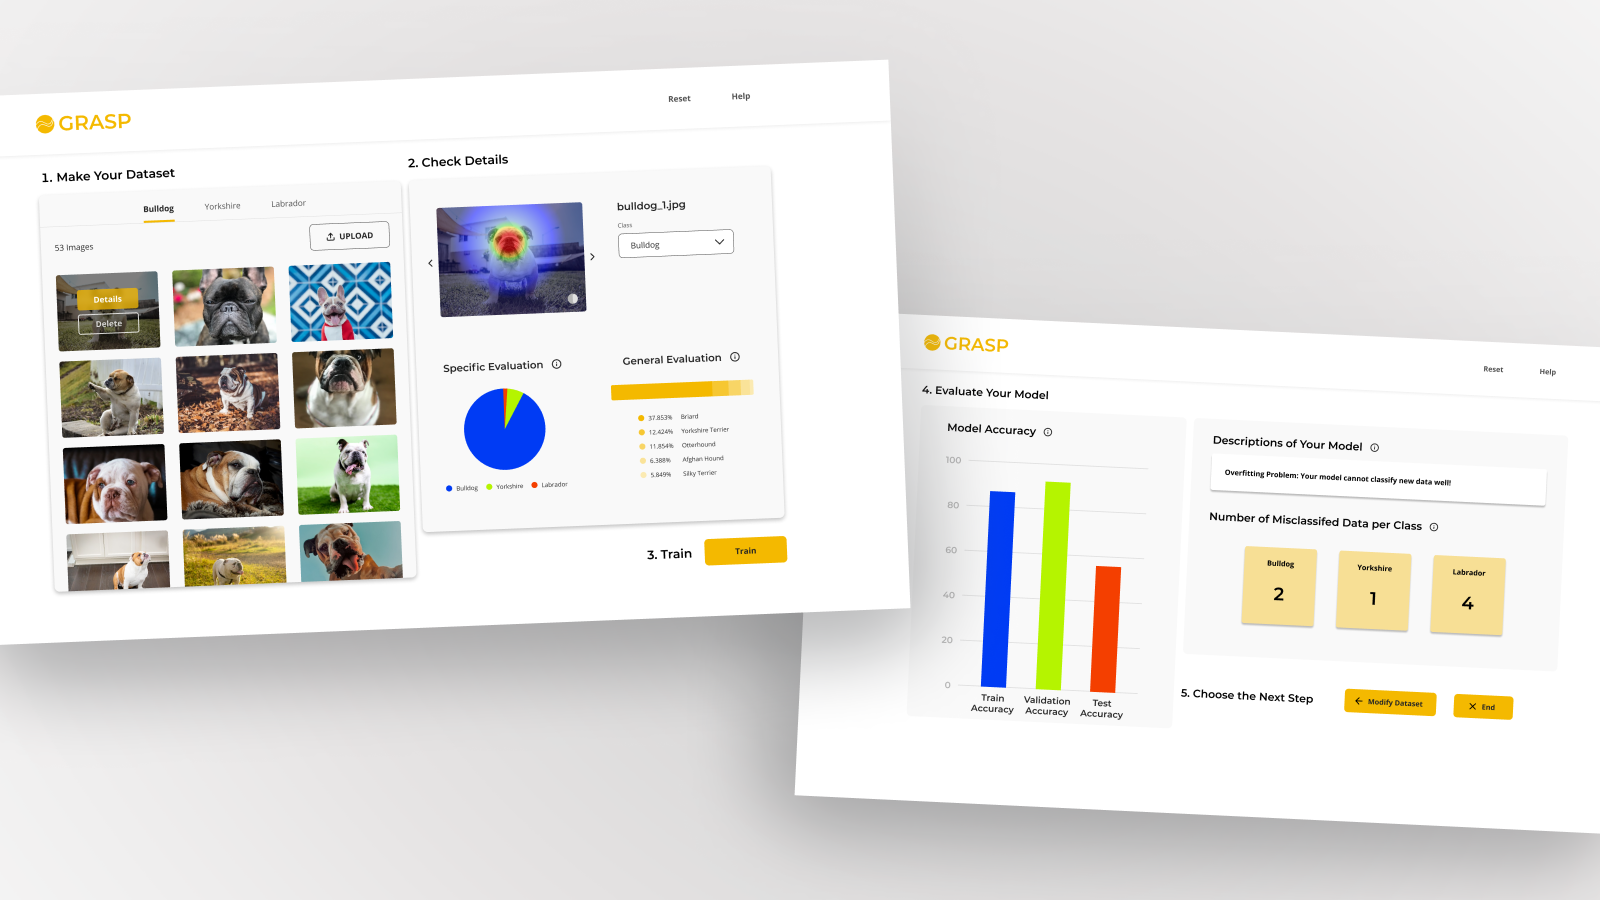
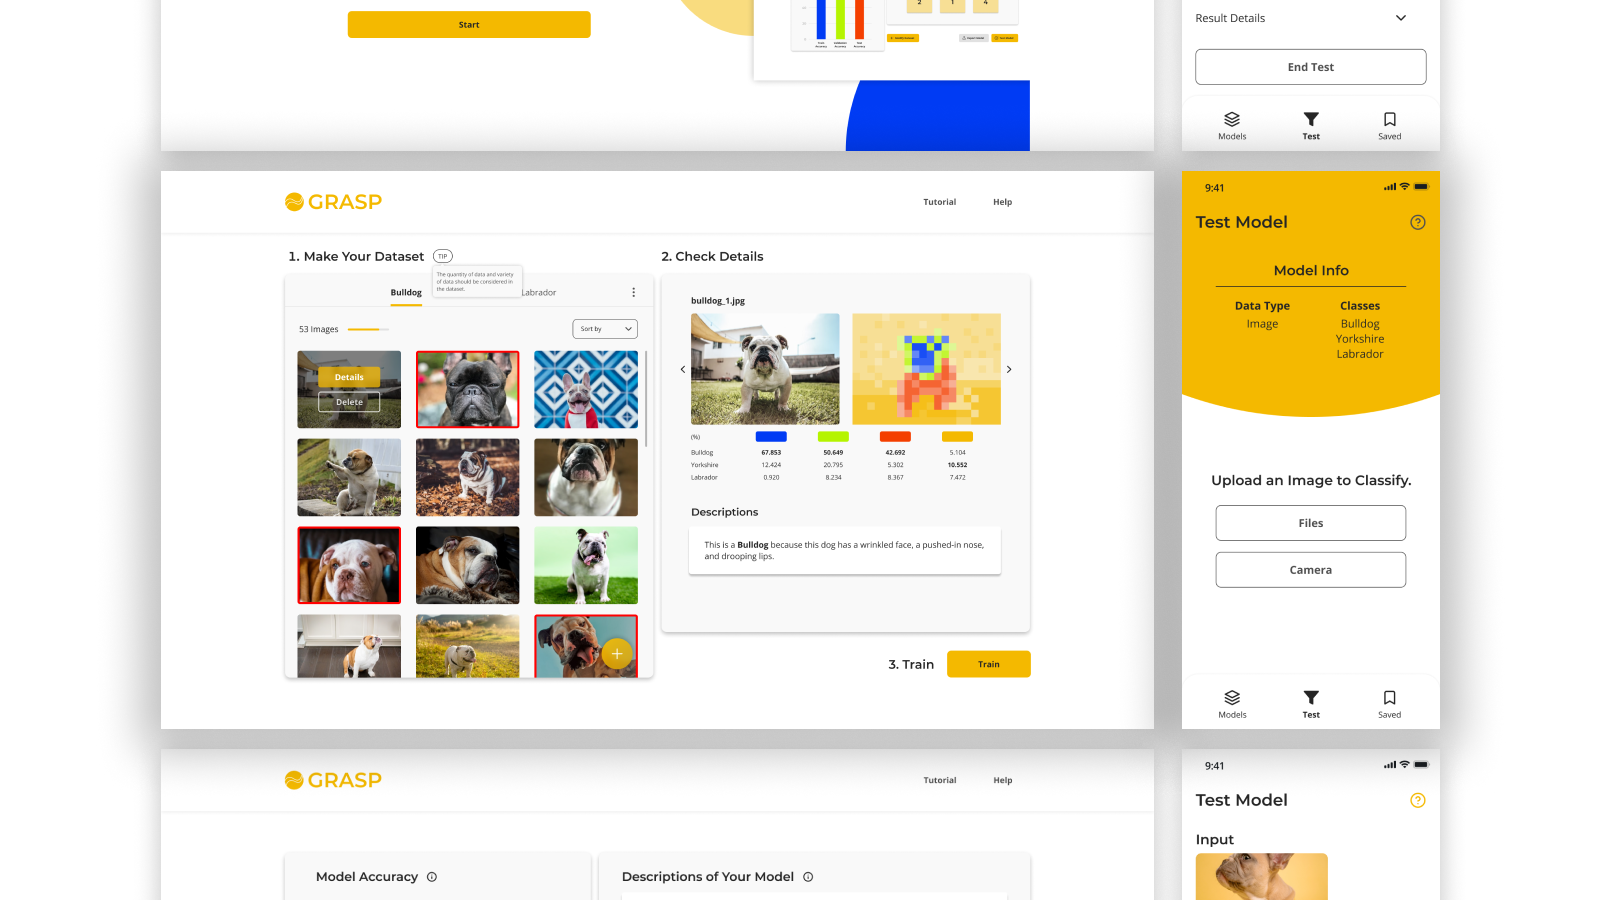
[Grasp] Added redesign section and images

diff --git a/grasp.html b/grasp.html
@@ -94,6 +94,7 @@
           <li class="tool"><a href="#tool" class="floating-nav">Tool</a></li>
           <li class="user-study"><a href="#user-study" class="floating-nav">User Study</a></li>
           <li class="findings"><a href="#findings" class="floating-nav">Findings</a></li>
+          <li class="redesign"><a href="#redesign" class="floating-nav">Redesign</a></li>
           <li class="reflections"><a href="#reflections" class="floating-nav">Reflections</a></li>
         </ul>
       </div>
@@ -146,7 +147,7 @@
             🖍 <span style="font-weight:500;"> UX/UI Design</span> : User flows and UI design of the tool<br>
             📋 <span style="font-weight:500;"> User Study Methodology</span> : Interview scripts, guidelines, tutorials, and metrics <br>
             👥 <span style="font-weight:500;"> User Study</span> : Conducted user study with 21 participants<br>
-            📊 <span style="font-weight:500;"> Data Analysis</span> : Qualitative - Affinity Walls; Quantitative - data analysis using Python<br>
+            📊 <span style="font-weight:500;"> Data Analysis</span> : Qualitative & quantitative data analysis<br>
             📄 <span style="font-weight:500;"> Thesis</span> : Introduction, Related Work, User Study, Findings, Conclusion</p>
             <div>
               <p><span class="bold">Award</span><br>3rd Place in Ewha Capstone Design Expo</p>
@@ -165,8 +166,9 @@
             <p>It is difficult for non-experts to build machine learning (ML) models at the level that satisfies their needs. 
                 Deep learning models are even more challenging because it is unclear how to improve the model, and a trial-and-error approach is not feasible since training these models is time-consuming. 
                 To assist these novice users, we examined how <span class="highlight">interactive and explainable feedback</span> while training a deep learning network can contribute to model performance and users’ satisfaction, focusing on the <span class="highlight">data preparation process</span>.<br><br>
-                We conducted a user study with 31 participants without expertise and while no significant performance gain was observed, we identified potential barriers during the process and found that interactive and explainable feedback <span class="highlight">provides complementary benefits for improving users’ understanding of ML</span>.
+                Based on the findings from user test, I redesigned the tool that would help non-experts build machine learning models.
               </p>
+              <a href="#final-design" class="highlight2 bold" style="color:black;">See the final design ↓</a>
           </div>
         </div>
       </div>
@@ -206,6 +208,7 @@
             </ul>
             Hence they had trouble improving the performance or even giving up their tasks or ended up having poor accuracy on a new dataset.</p><br>
             <p><span class="project-challenge">"How can we better assist non-experts with building a deep learning model?"</span></p>
+            <a href="#final-design" class="highlight2 bold" style="color:black;">See the final design ↓</a>
                 <!--
             <br><br><span style="font-size:0.8rem; color:#7d7d7d;">T. Kulesza, M. Burnett, W.-K. Wong, and S. Stumpf, “Principles of explanatory debugging to personalize interactive machine learning,” in Proceedings of the 20th international conference on intelligent user interfaces. ACM, pp. 126–137, 2015. DOI: https://doi.org/10.1145/2678025.2701399<br>
                 T. Kulesza, S. Stumpf, M. Burnett, and I. Kwan, “Tell me more?: the effects of mental model soundness on personalizing an intelligent agent,” in Proceedings of the SIGCHI Conference on Human Factors in Computing Systems. ACM, pp. 1–10, 2012. DOI: https://doi.org/10.1145/2207676.2207678<br>
@@ -279,6 +282,7 @@
             <p>
               <span class="bold">Tool Design</span><br>
             </p>
+            <a href="#final-design" class="highlight2 bold" style="color:black;">See the final design ↓</a>
           </div>
           <div class="col-lg-5">
             <img src="images/grasp/F_Data Preparation.png" alt="Image" class="img-fluid img-bg">
@@ -654,22 +658,149 @@
       </div>
     </div>
   </section>
-<!--
+
   <section id="redesign">
     <div class="site-section bg-light">
-      <div class="container" data-aos="fade-up" data-aos-delay="100">
-        <div class="row mb-5">
+      <div class="container">
+        <div class="row mb-5" data-aos="fade-up" data-aos-delay="100">
           <div class="col-lg-12">
             <h2 class="section-title">Redesigning the Tool</h2>
-            <p>Based on the findings, I redesigned the tool to become more useful to actual users.</p>
+            <p>Based on the findings, I redesigned the tool to be more accessible and usable to non-experts.<br>
+              Also, I designed the tool to provide the <span class="highlight">whole experience of making a model, testing it, and exporting it</span> to web or mobile environment.
+            </p>
+          </div>
+        </div>
+        <div class="row mb-5" data-aos="fade-up" data-aos-delay="100">
+          <div class="col-lg-12">
+            <p class="bold">Key Approaches</p>
+          </div>
+          <div class="col-lg-3 textbox-outside">
+            <p class="textbox">1. Present all feedback features</p>
+          </div>
+          <div class="col-lg-3 textbox-outside">
+            <p class="textbox">2. Include different data types including speech.</p>
+          </div>
+          <div class="col-lg-3 textbox-outside">
+            <p class="textbox">3. Guide non-experts to prepare various and plenty of data.</p>
+          </div>
+          <div class="col-lg-3 textbox-outside">
+            <p class="textbox">4. Reinforce <i>Explainability</i> to prevent forming misconceptions.</p>
           </div>
         </div>
       </div>
     </div>
-  </section>-->
+    <!--
+    <div class="site-section bg-light">
+      <div class="container">
+        <div class="row mb-5" data-aos="fade-up" data-aos-delay="100">
+          <div class="col-lg-12">
+            <h2 class="section-title">User Flow</h2>
+            <p>Based on the findings, I redesigned the tool to be more accessible and usable to non-experts.<br>
+              Also, I designed the tool to provide the <span class="highlight">whole experience of making a model, testing it, and exporting it</span> to web or mobile environment.
+            </p>
+          </div>
+        </div>
+        <div class="row mb-5" data-aos="fade-up" data-aos-delay="100">
+          <div class="col-lg-12">
+            
+          </div>
+        </div>
+      </div>
+    </div>-->
+    <div class="site-section bg-light" id="final-design">
+      <div class="container">
+        <div class="row mb-3" data-aos="fade-up" data-aos-delay="100">
+          <div class="col-lg-12">
+            <h2 class="section-title">Final Design</h2>
+            <p><span class="bold">Web</span>: Building, Testing, Exporting, and Importing an Model</p>
+          </div>
+        </div>
+        <div class="row mb-5" data-aos="fade-up" data-aos-delay="100">
+          <div class="col-lg-6">
+            <div class="image-absolute-box" >
+              <img src="images/grasp/Web-Home.png" alt="Image" class="img-fluid img-bg">
+            </div>
+          </div>
+          <div class="col-lg-6">
+            <div class="image-absolute-box" >
+              <img src="images/grasp/Web-Setting.png" alt="Image" class="img-fluid img-bg">
+            </div>
+          </div>
+        </div>
+        <div class="row mb-5" data-aos="fade-up" data-aos-delay="100">
+          <div class="col-lg-6">
+            <div class="image-absolute-box" >
+              <img src="images/grasp/Web-Data Preparation.png" alt="Image" class="img-fluid img-bg">
+            </div>
+          </div>
+          <div class="col-lg-6">
+            <div class="image-absolute-box" >
+              <img src="images/grasp/Web-Model Evaluation.png" alt="Image" class="img-fluid img-bg">
+            </div>
+          </div>
+        </div>
+        <div class="row mb-5" data-aos="fade-up" data-aos-delay="100">
+          <div class="col-lg-6">
+            <div class="image-absolute-box" >
+              <img src="images/grasp/Web-Export Setting.png" alt="Image" class="img-fluid img-bg">
+            </div>
+          </div>
+          <div class="col-lg-6">
+            <div class="image-absolute-box" >
+              <img src="images/grasp/Web-Test.png" alt="Image" class="img-fluid img-bg">
+            </div>
+          </div>
+        </div>
+        <div class="row mb-3" data-aos="fade-up" data-aos-delay="100">
+          <div class="col-lg-12">
+            <p><span class="bold">Mobile</span>: Testing and Importing an Model</p>
+          </div>
+        </div>
+        <div class="row mb-5" data-aos="fade-up" data-aos-delay="100">
+          <div class="col-lg-3">
+            <div class="image-absolute-box" >
+              <img src="images/grasp/Mob.png" alt="Image" class="img-fluid img-bg">
+            </div>
+          </div>
+          <div class="col-lg-3">
+            <div class="image-absolute-box" >
+              <img src="images/grasp/Mob-Home.png" alt="Image" class="img-fluid img-bg">
+            </div>
+          </div>
+          <div class="col-lg-3">
+            <div class="image-absolute-box" >
+              <img src="images/grasp/Mob-Home-1.png" alt="Image" class="img-fluid img-bg">
+            </div>
+          </div>
+          <div class="col-lg-3">
+            <div class="image-absolute-box" >
+              <img src="images/grasp/Mob-Home-2.png" alt="Image" class="img-fluid img-bg">
+            </div>
+          </div>
+        </div>
+        <div class="row mb-5" data-aos="fade-up" data-aos-delay="100">
+          <div class="col-lg-3">
+            <div class="image-absolute-box" >
+              <img src="images/grasp/Mob-Camera.png" alt="Image" class="img-fluid img-bg">
+            </div>
+          </div>
+          <div class="col-lg-3">
+            <div class="image-absolute-box" >
+              <img src="images/grasp/Mob-Picture.png" alt="Image" class="img-fluid img-bg">
+            </div>
+          </div>
+          <div class="col-lg-3">
+            <div class="image-absolute-box" >
+              <img src="images/grasp/Mob-Result.png" alt="Image" class="img-fluid img-bg">
+            </div>
+          </div>
+        </div>
+      </div>
+    </div>
+  </section>
 
   <section id="reflections">
-    <div class="site-section bg-light">
+    <div class="site-section">
       <div class="container" data-aos="fade-up" data-aos-delay="100">
         <div class="row">
           <div class="col-lg-12">

diff --git a/css/style.css b/css/style.css
@@ -262,6 +262,11 @@ nav .contain ul li.active {
   padding-right: 30px;
   box-shadow: 0 2px 10px -2px rgba(0, 0, 0, 0.3);
   border-radius: 10px;
+  height: 100%;
+}
+.textbox-outside{
+  padding-left: 15px;
+  padding-right: 15px;
 }
 
 .p-large{
